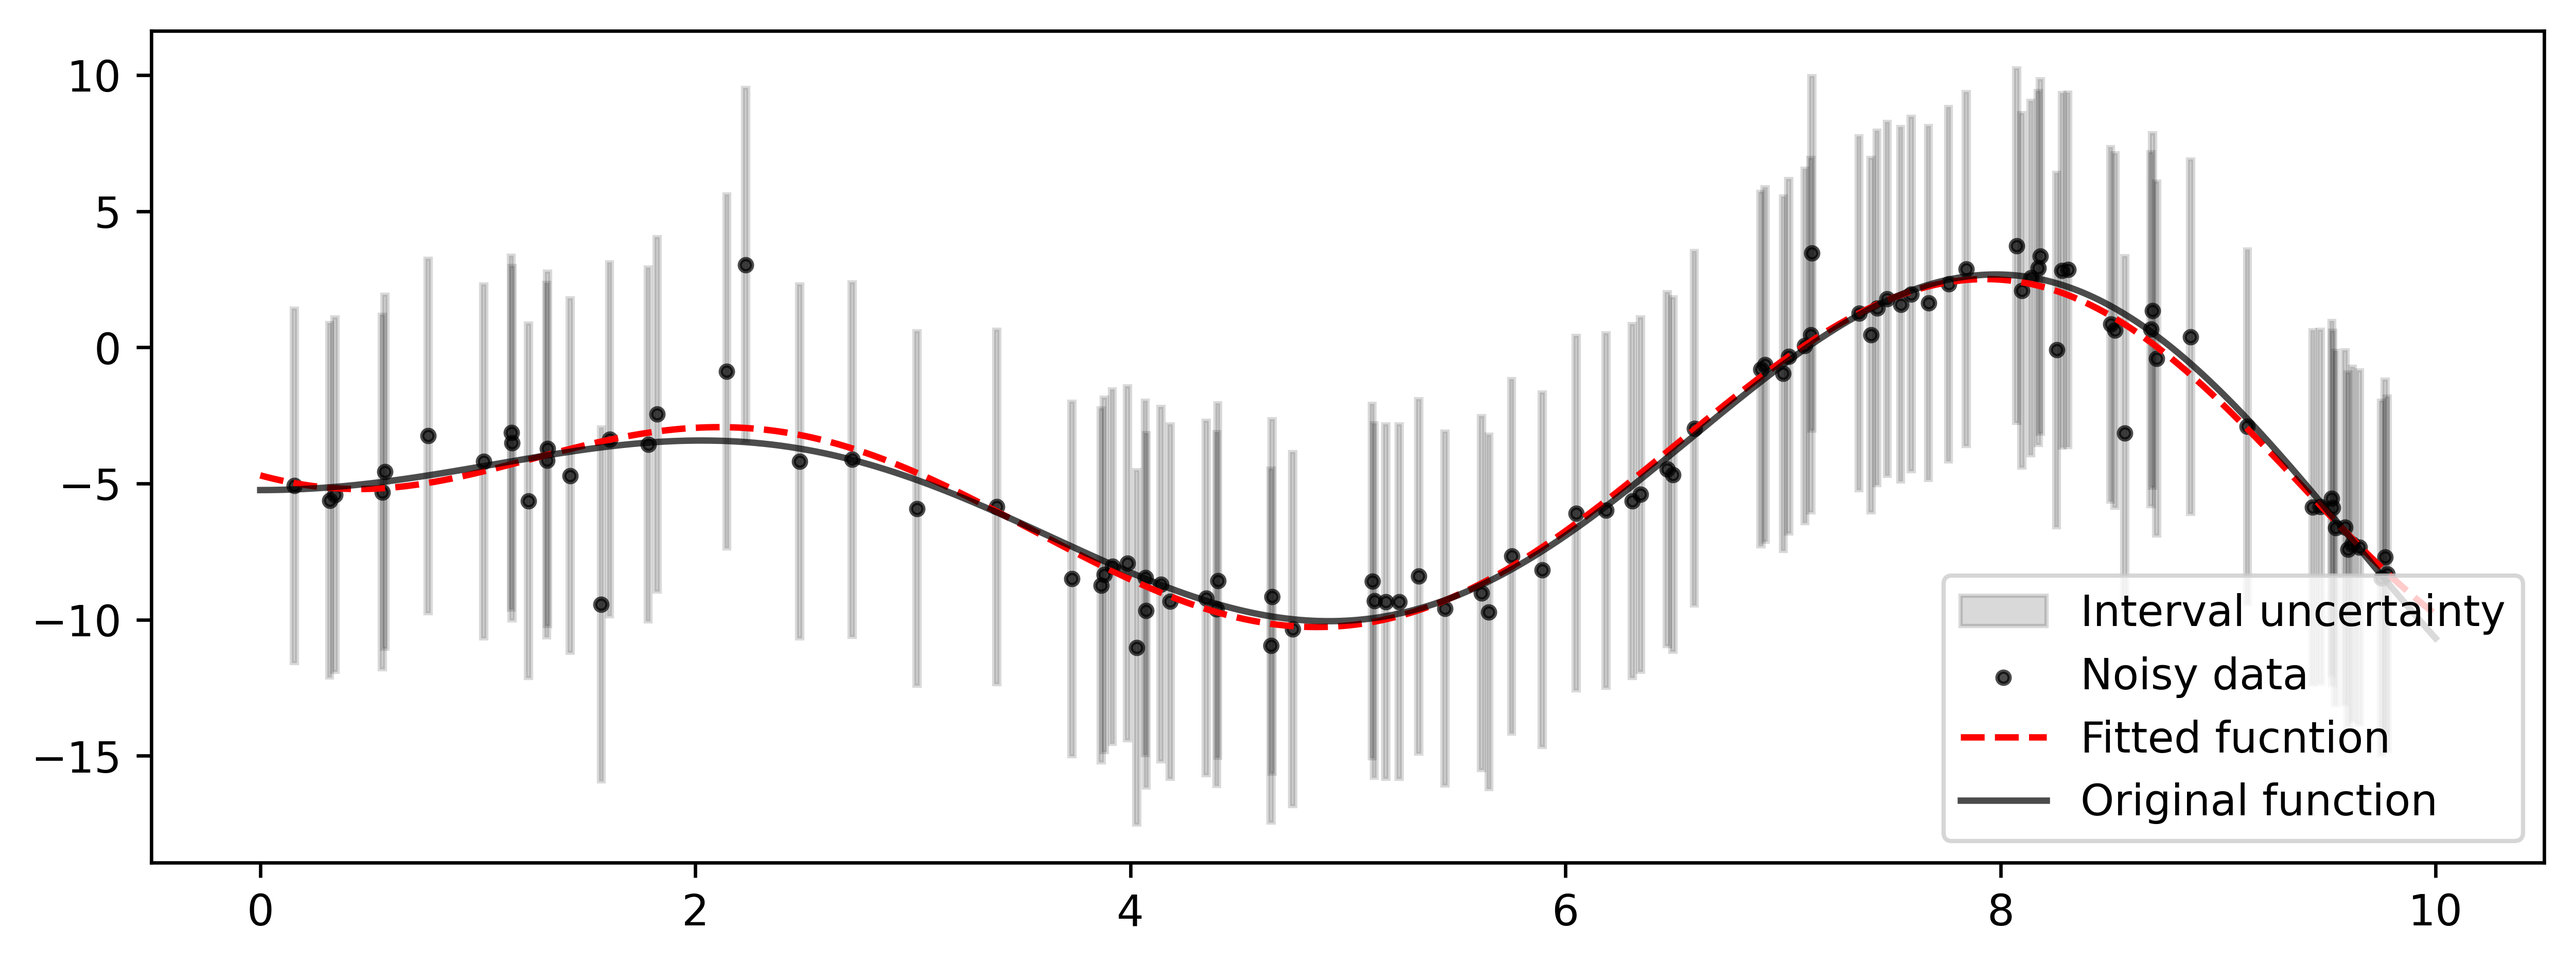
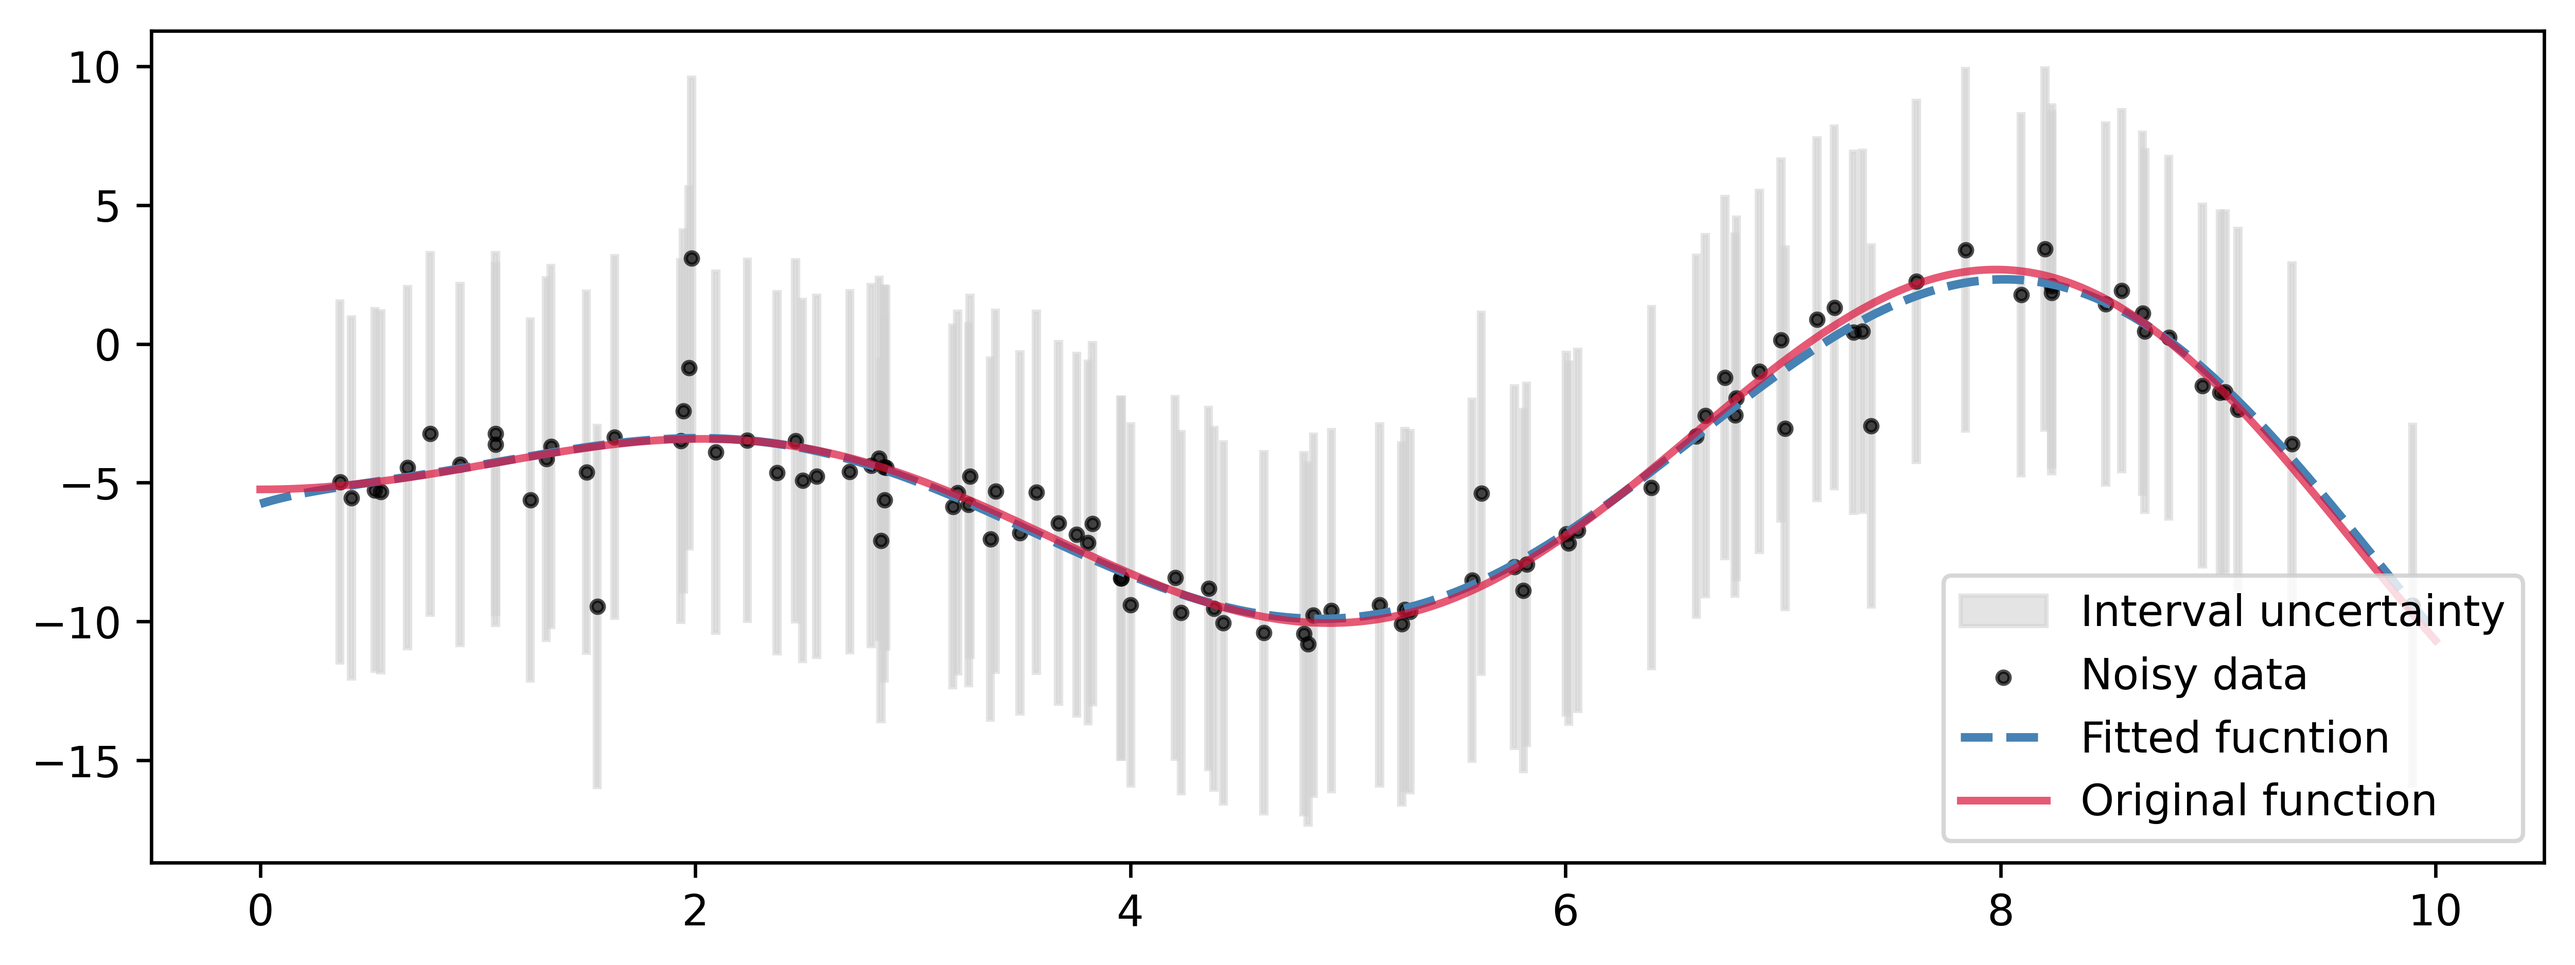
realese 2.0.3

diff --git a/intvalpy/models/ISPAE.py b/intvalpy/models/ISPAE.py
@@ -271,6 +271,7 @@ class ISPAE(object):
             weight=None,
             objective='Tol',
             norm='inf',
+            bias=True,
             **kwargs
     ):
         """
@@ -292,13 +293,19 @@ class ISPAE(object):
             Objective function type. Options: 'Tol', 'Uni' (default: 'Tol').
         norm : str, optional
             Norm type for the objective function. Options: 'inf', 'l1' (default: 'inf').
+        bias : bool, optional
+            Whether to include a bias term (intercept) in the model.
+            If True, a constant term is added to the polynomial (default: True).
         **kwargs : dict
             Additional arguments for the optimizer ralgb5.
         """
         # Initialize training data
         X_train = pd.DataFrame(X_train)
-        self.columns = X_train.columns
         n, m = X_train.shape
+        self.bias = bias
+        if self.bias:
+            X_train.insert(loc=0, column='bias', value=[1]*n)
+        self.columns = X_train.columns
 
         # Validate and set polynomial order
         if hasattr(order, '__iter__'):
@@ -306,6 +313,9 @@ class ISPAE(object):
         else:
             order = np.full(m, order)
         self.order = np.array(order)
+
+        if self.bias:
+            self.order = np.append([1], self.order)
 
         # Expand the dataframe with polynomial features
         X_expand = self._expand_dataframe(X_train)
@@ -377,4 +387,8 @@ class ISPAE(object):
         predictions : Interval
             Predicted target intervals.
         """
+        X_test = pd.DataFrame(X_test)
+        n, m = X_test.shape
+        if self.bias:
+            X_test.insert(loc=0, column='bias', value=[1]*n)
         return self._expand_dataframe(X_test) @ self.estimator['xr']

diff --git a/doc/src/guide.rst b/doc/src/guide.rst
@@ -3,36 +3,29 @@ Using intervals
 
 This section gives an overview of the use of interval classes and examples of working with interval data.
 
-Run the following commands to connect the necessary modules
+Run the following commands to import the necessary modules
 
     >>> import numpy as np
-    >>> from intvalpy import Interval, precision
+    >>> from intvalpy import Interval
 
-It connects the interval function `Interval` from the implemented `IntvalPy` library, which was previously installed
+This imports the `Interval` class from the `IntvalPy` library, which was previously installed
 with the command `pip install intvalpy`.
 
 .. Contents::
 
-The class `Interval` was created in accordance with IEEE Standard 754-2008, where rounding occurs to the nearest even number.
-This allows significantly to accelerate the computational upper-level functions and reduce the computation time.
-However, in tasks where you need more precision, you can switch from the standard representation of the number as
-`double float` type to `mpf` type. To do this, run the following command:
+The `Interval` class is designed in accordance with the IEEE 754 standard for floating-point arithmetic
+and implements **directed rounding** (rounding downward and upward). This guarantees that the computed
+intervals always enclose the exact mathematical result, ensuring reliability in numerical computations
+and providing rigorous error bounds.
 
-    >>> precision.extendedPrecisionQ = True
+The IntvalPy library supports classical interval arithmetic and full Kaucher interval arithmetic.
+Each arithmetic operates with different types of intervals (for example, classical arithmetic considers 
+only "proper" intervals), which means that the arithmetic operations may differ between the two approaches. 
+Therefore, it was decided to implement two separate classes, one for each arithmetic.
 
-You can also set the working precision (after which decimal place rounding will take place):
-
-    >>> precision.dps(50)
-
-The default setting is increased accuracy to 36th decimal place.
-
-
-The IntvalPy library supports classical arithmetic and full Kaucher interval arithmetic.
-Each arithmetic has different types of intervals (for example, classical arithmetic considers only "correct" intervals),
-which means that the arithmetic operations can differ from each other. Therefore, it was decided to develop two different classes
-for each of the arithmetics. However, there are not few common characteristics that these classes could inherit
-from some third class. These could be the operations of taking the ends of an interval, the width or radius, and many other things.
-This is why the parent class ``BaseTools'' was made separately.
+However, there are many common characteristics that these classes can inherit from a shared base class,
+such as extracting the endpoints of an interval, computing its width or radius, and various other operations.
+This is why the parent class ``BaseTools`` was created separately.
 
 
 Basic сharacteristics
@@ -40,8 +33,8 @@ Basic сharacteristics
 
 **class BaseTools(left, right)**
 
-A parent class that contains methods that can be used to calculate the basic interval characteristics of any interval arithmetic.
-Used in the `ClassicalArithmetic` and `KaucherArithmetic` classes.
+A parent class that contains methods that can be used to calculate the basic interval characteristics 
+of any interval arithmetic. Used in the `ClassicalArithmetic` and `KaucherArithmetic` classes.
 
 **Parameters**:
 

diff --git a/README.md b/README.md
@@ -91,16 +91,16 @@ def f(x):
     return -5.24 + x*np.sin(x)
     
 # Data generation
+np.random.seed(41)
 x = np.sort(np.random.uniform(0.1, 9.9, 100))
 y = f(x)
-const = np.ones(len(x))
 eps_x = noise_distribution(len(x), intensity=0.005, seed=42)
 eps_y = noise_distribution(len(x), intensity=1.75, seed=43)
 x_noisy = x + eps_x
 y_noisy = y + eps_y
 df = pd.DataFrame(
-    data = np.array([ const, x_noisy, y_noisy ]).T,
-    columns = ['const', 'x', 'y']
+    data = np.array([ x_noisy, y_noisy ]).T,
+    columns = ['x', 'y']
 )
 # Convert to interval uncertainty
 df['x'] = df['x'] + ip.Interval(-max(eps_x), max(eps_x))
@@ -109,30 +109,30 @@ df['y'] = df['y'] + ip.Interval(-max(eps_y), max(eps_y))
 # Training a polynomial model
 model = ip.ISPAE()
 model.fit(
-    X_train = df[['const', 'x']],
+    X_train = df[['x']],
     y_train = df['y'],
-    order = [1, 8],
+    order = 8,
     x0 = None,
     weight = None,
     objective = 'Uni',
     norm = 'inf',
+    bias = True
 )
 
 # Testing fitted model
 ox = np.linspace(0, 10, 1000)
-const = np.ones(len(ox))
-df_test = pd.DataFrame(data=np.array([const, ox]).T, columns=['const', 'x'])
-y_pred = ip.mid(model.predict(df_test[['const', 'x']]))
+df_test = pd.DataFrame(data=np.array([ox]).T, columns=['x'])
+y_pred = ip.mid(model.predict(df_test[['x']]))
 y_fact = f(ox)
 
 # Visualization results
 fig, ax = plt.subplots(nrows=1, ncols=1, figsize=(10, 3.5))
 x_plt = np.array([ip.inf(df['x']), ip.inf(df['x']), ip.sup(df['x']), ip.sup(df['x'])])
 y_plt = np.array([ip.inf(df['y']), ip.sup(df['y']), ip.sup(df['y']), ip.inf(df['y'])])
-ax.fill(x_plt, y_plt, color='black', alpha=0.15, fill=True, label='Interval uncertainty')
+ax.fill(x_plt, y_plt, color='lightgray', alpha=0.6, fill=True, label='Interval uncertainty')
 plt.scatter(x_noisy, y_noisy, alpha=0.7, color='black', s=8, label='Noisy data')
-plt.plot(ox, y_pred, color='red', ls='--', alpha=1, linewidth=1.5, label='Fitted fucntion')
-plt.plot(ox, y_fact, color='black', ls='-', alpha=0.7, linewidth=1.5, label='Original function')
+plt.plot(ox, y_pred, color='steelblue', ls='--', alpha=1, linewidth=2, label='Fitted fucntion')
+plt.plot(ox, y_fact, color='crimson', ls='-', alpha=0.7, linewidth=1.8, label='Original function')
 handles, labels = ax.get_legend_handles_labels()
 by_label = dict(zip(labels, handles))
 ax.legend(by_label.values(), by_label.keys(), loc='lower right')
